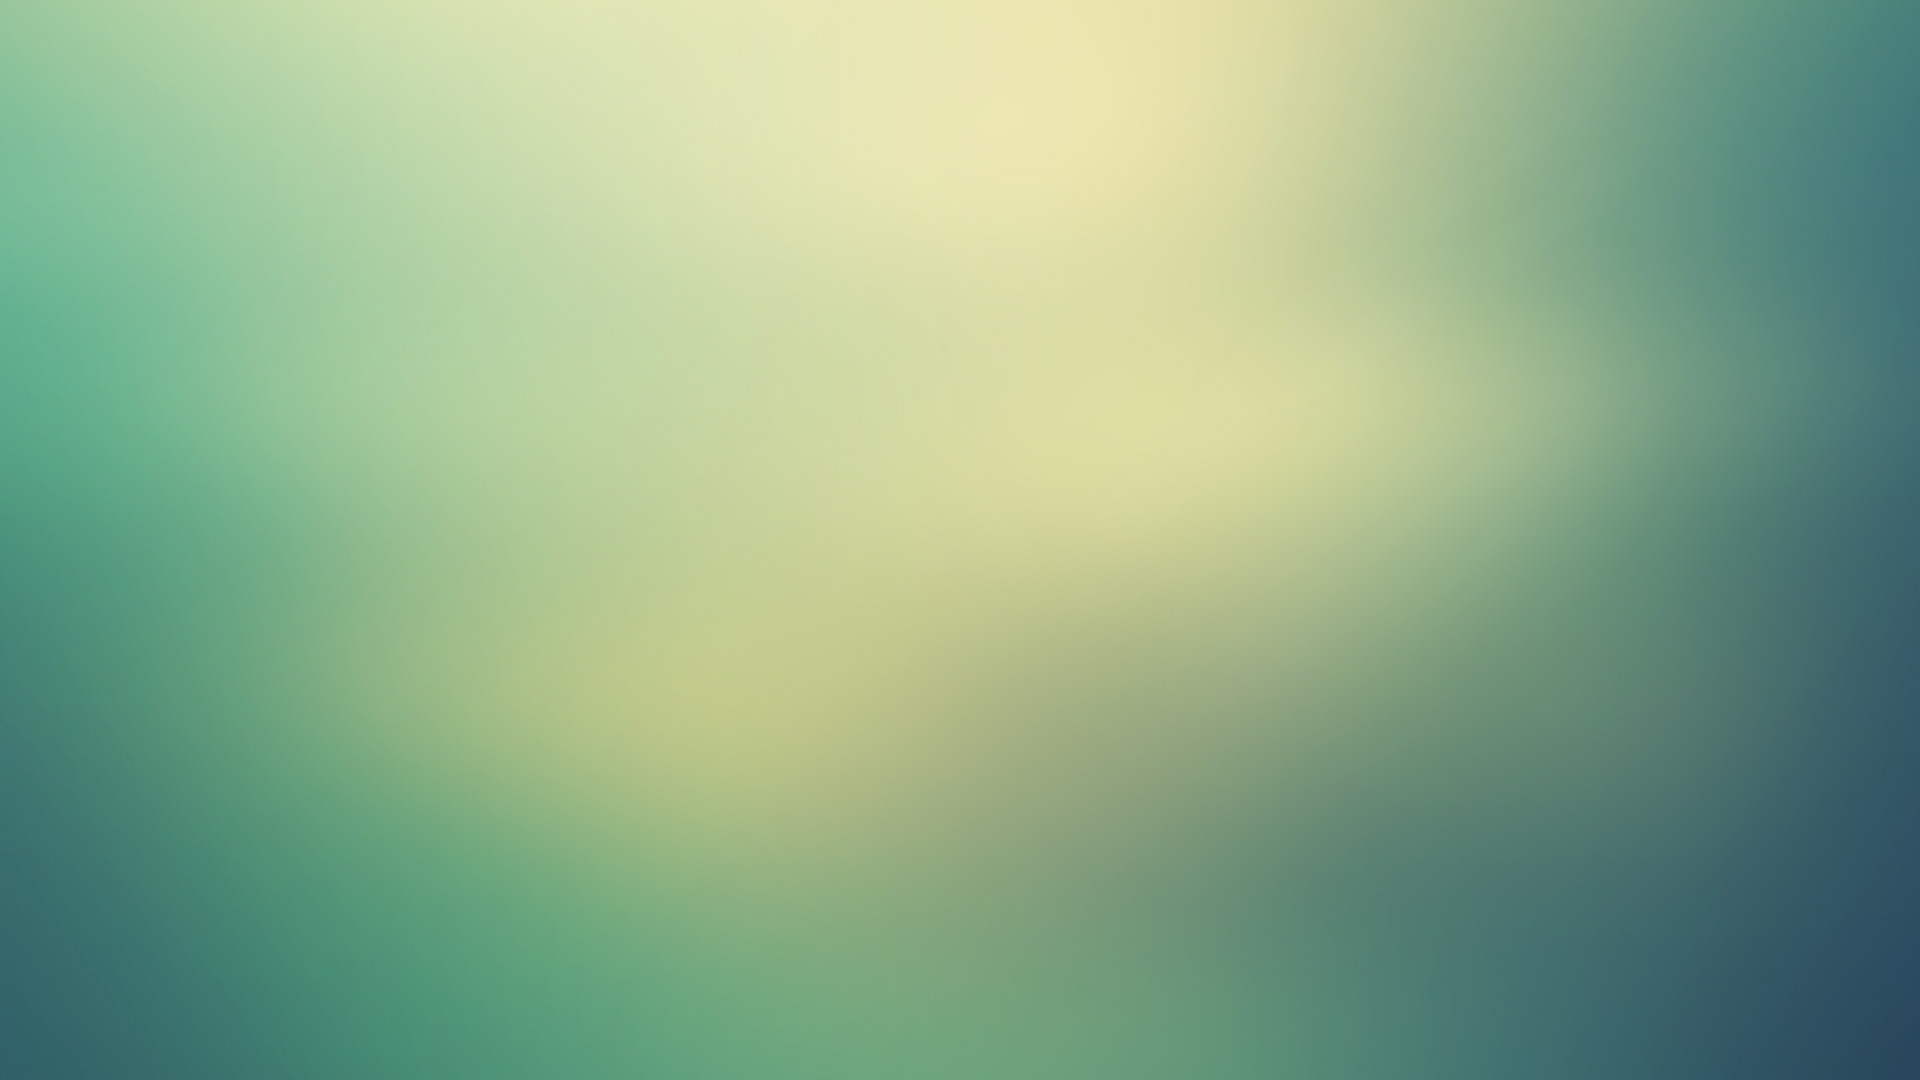
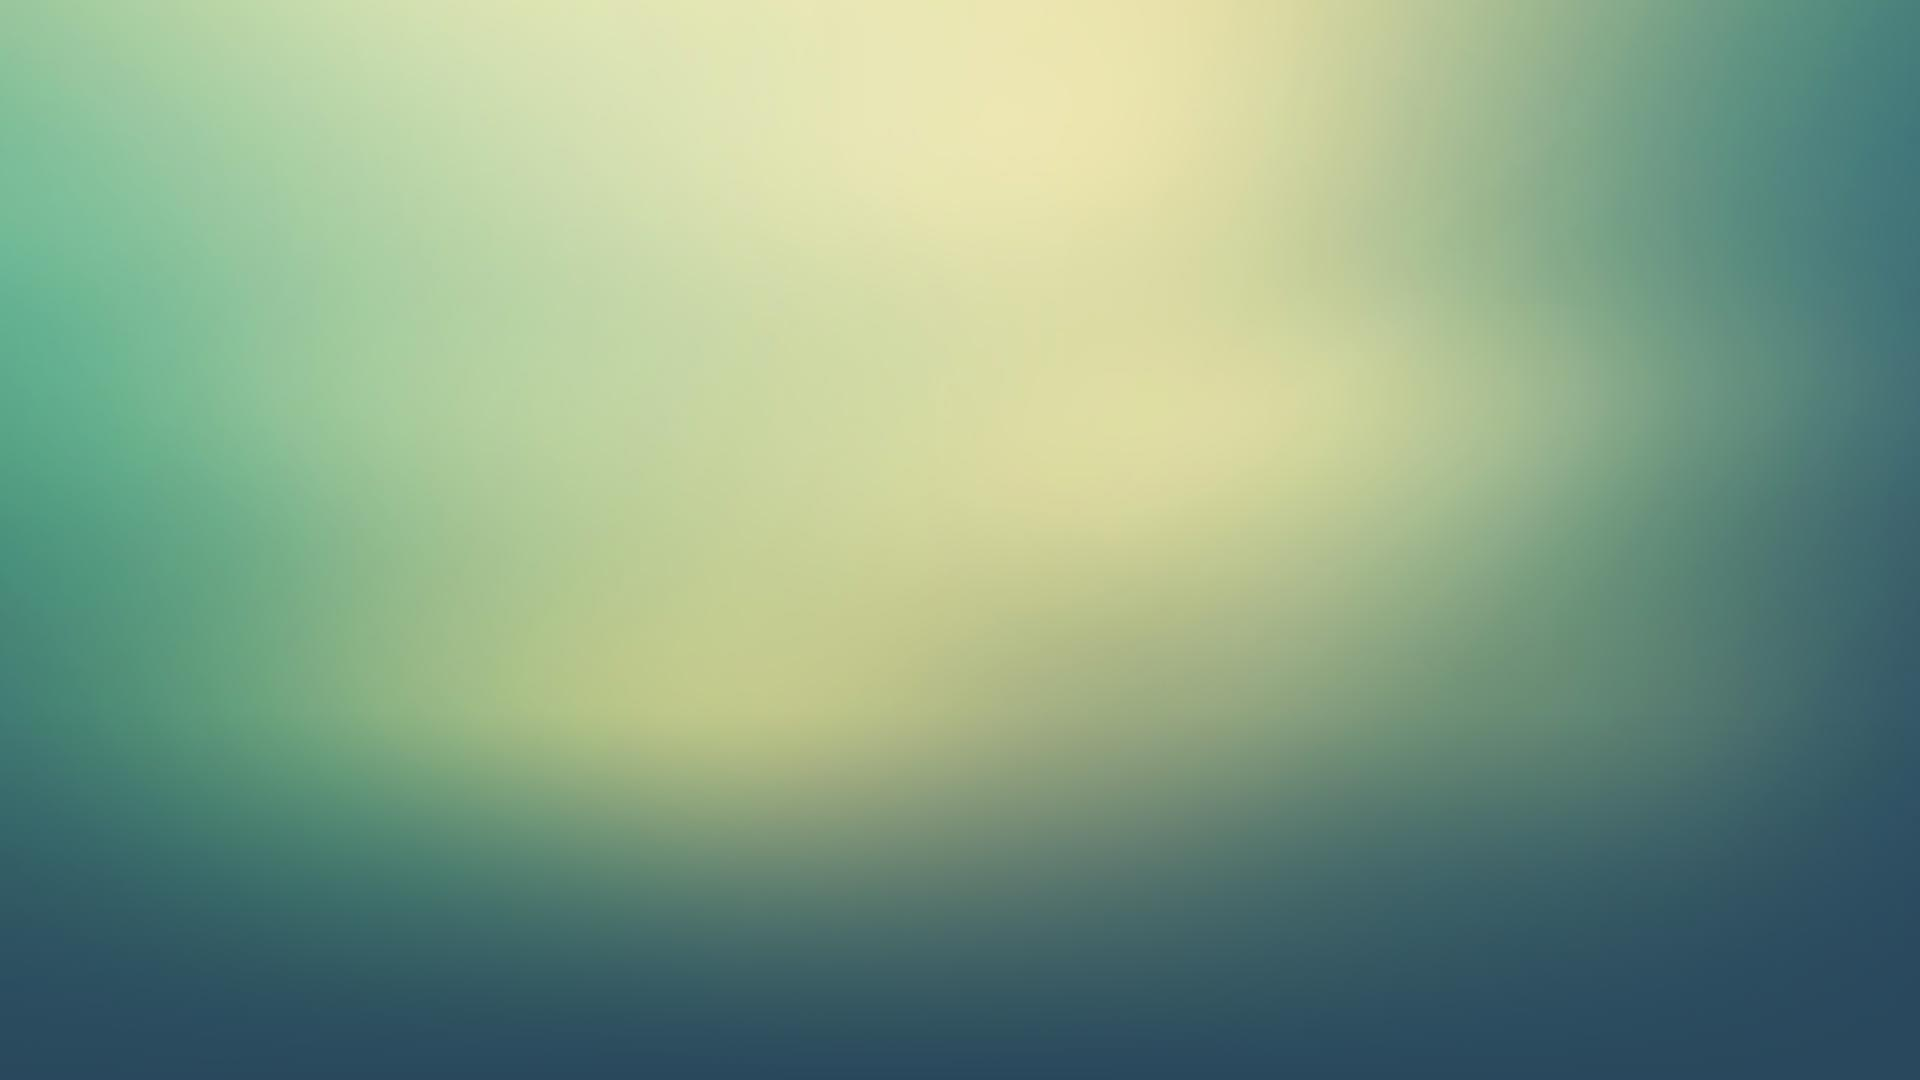
html/css update

Changed region(s): [[0.0, 0.7333, 0.875, 1.0]]

diff --git a/index.html b/index.html
@@ -7,6 +7,18 @@
 	<meta name="viewport" content="width=device-width, initial-scale=1.0">
 	<meta name="description" content="Candy Crush clone (simple) made in 2 days with Javascript, html/css (dom), Jquery & HammerJS.">
 	<meta name="author" content="Didier Chartrain http://github.com/copycut">
+	<meta name="twitter:card" content="summary_large_image">
+	<meta name="twitter:site" content="@copycut">
+	<meta name="twitter:creator" content="@copycut">
+	<meta name="twitter:title" content="Gems Swapper (html5/Js Game)">
+	<meta name="twitter:description" content="Candy Crush clone (simple) made in 2 days with Javascript, html/css (dom), Jquery & HammerJS.">
+	<meta name="twitter:url" content="http://copycut.github.io/gems-swapper/">
+	<meta name="twitter:image:src" content="http://cl.ly/image/1a082L3n3S1S"/>
+	<meta property="og:title" content="Gems Swapper (html5/Js Game)">
+	<meta property="og:description" content="Candy Crush clone (simple) made in 2 days with Javascript, html/css (dom), Jquery & HammerJS.">
+	<meta property="og:url" content="http://copycut.github.io/gems-swapper/">
+	<meta property="og:type" content="website">
+	<meta property="og:image" content="http://cl.ly/image/1a082L3n3S1S">
 </head>
 <body>
 

diff --git a/assets/css/master.css b/assets/css/master.css
@@ -1,15 +1,12 @@
 
-html {
-	background: url(../images/bg.jpg) center top no-repeat;
-	background-size: 100% 100%;
-}
-
 body {
 	padding: 0;
 	margin: 0;
 	height: 100%;
 	font-family: "Helvetica Neue", "Arial", sans-serif;
 	font-size: 1em;
+	background: #29485c url(../images/bg.jpg) center top no-repeat;
+	background-size: 100% 100%;
 }
 
 .twitterButton {
@@ -76,12 +73,12 @@ body {
 .footer {
 	text-align: center;
 	font-size: 12px;
-	color: #24633D;
+	color: #47B372;
 	padding-bottom: 50px
 }
 
 .footer a {
-	color: #134125;
+	color: #0FDD60;
 }
 
 
